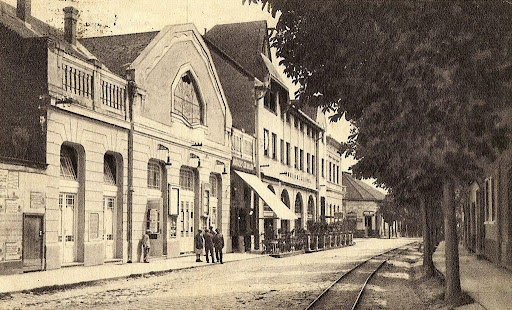
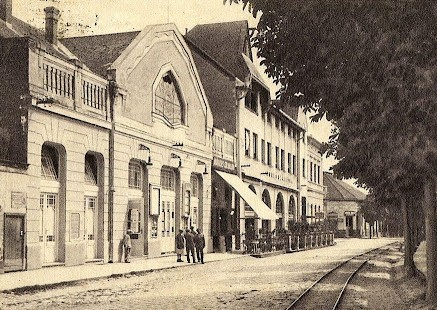
vwfugv

diff --git a/gyula.html b/gyula.html
@@ -44,9 +44,9 @@
         /* Slideshow container */
         .slideshow-container {
         position: relative;
-        margin-top: 100px;
-        margin-left: 200px;
-        margin-right: 200px;
+        margin-top: 50px;
+        margin-left: 50px;
+        margin-right: 50px;
         }
 
         /* Number text (1/3 etc) */
@@ -176,13 +176,16 @@
         <h2>Történet</h2><hr>
         <div class="flexb">
             <div class="flex egy">
-            <h3>Kezdetek</h3><br><p><img src="kep/gyulregen.jpg" alt="Békés régen" title="Békés régen">A vidéken, amelyen később Gyula kialakult, az első emberek az újkőkor idején, Kr. e. mintegy 5000 évvel jelentek meg. A Fehér-Körös vonala és a magasabb, ármentes területek akkoriban már alkalmasak voltak őskori települések megalapítására. Az akkoriban itt letelepült újkőkori emberek eredetét nem ismervén, e korszak legkorábbi szakaszát legfontosabb lelőhelyeiről épp Körös-kultúrának nevezték el a régészek. Ez a „kulturális korszak”, az újkőkor végén a tiszai kultúrában folytatódott. A népvándorlás idején, Kr. u. 500 körül a szkítákkal rokon szarmaták érkeztek a majdani Gyula területére. A honfoglalás időszakának helybéli történéseit nem ismerjük pontosan, csupán elméletek vannak erről a korszakról. E történetek alapja Anonymusnak az 1200 körül írt Honfoglalás című története, valamint egy a múlt század közepén a mai városháza udvarán feltárt honfoglalás kori lovas sír.</p></div><br>
+            <h3>Kezdetek</h3><br><p><img src="kep/gyulregen.jpg" alt="Gyula régen" title="Gyula régen">A vidéken, amelyen később Gyula kialakult, az első emberek az újkőkor idején, Kr. e. mintegy 5000 évvel jelentek meg. A Fehér-Körös vonala és a magasabb, ármentes területek akkoriban már alkalmasak voltak őskori települések megalapítására. Az akkoriban itt letelepült újkőkori emberek eredetét nem ismervén, e korszak legkorábbi szakaszát legfontosabb lelőhelyeiről épp Körös-kultúrának nevezték el a régészek. Ez a „kulturális korszak”, az újkőkor végén a tiszai kultúrában folytatódott. A népvándorlás idején, Kr. u. 500 körül a szkítákkal rokon szarmaták érkeztek a majdani Gyula területére. A honfoglalás időszakának helybéli történéseit nem ismerjük pontosan, csupán elméletek vannak erről a korszakról. E történetek alapja Anonymusnak az 1200 körül írt Honfoglalás című története, valamint egy a múlt század közepén a mai városháza udvarán feltárt honfoglalás kori lovas sír.</p>
+        </div><br>
             <div class="flex keto">
-            <h3>Gyula ostroma</h3><br><p><img src="kep/gyulaiostrom.jpg" alt="Török kor" title="Török kor">Pertev pasa 30 ezres seregével Gyula alá érkezett. Elsőként július 2-től 11-ig körülvette a várat a török, majd július 11-én indította meg támadást a vár ellen. A harcok második szakaszában a vár leggyengébb pontját, a huszárvárat ostromolta a török. A védők 13 napon át tudták tartani azt, végül július 23-án, a vizes árkon átkelve, maguk után a hidat felégetve a derékvárba vonultak vissza Gyula védői.  Az ostrom harmadik szakaszában a török a huszárvárba nyomulva felállította ágyúit és onnan lőtte a vár bástyáit, illetve annak tornyát. A belső vár leromlott állapota már nem nyújtott védelmet a gyulaiaknak. A nyári hőségben a kutak kiapadtak, a temetetlen halottak járványveszélyes helyzetet idéztek elő.  Hátországi segítség hiányában, a megfogyatkozott őrség és a várban rekedt asszonyok, gyerekek miatt Kerecsényi kénytelen volt tárgyalásokat kezdeményezni a törökkel. A derékvárat augusztus 20-ig, 28 napon át sikerült tartani a megújuló török rohamok és a folyamatos ágyúzás ellenére. </p></div><br>
+            <h3>Gyula ostroma</h3><br><p><img src="kep/gyulaiostrom (2).jpg" alt="Gyula ostroma" title="Gyula ostroma">Pertev pasa 30 ezres seregével Gyula alá érkezett. Elsőként július 2-től 11-ig körülvette a várat a török, majd július 11-én indította meg támadást a vár ellen. A harcok második szakaszában a vár leggyengébb pontját, a huszárvárat ostromolta a török. A védők 13 napon át tudták tartani azt, végül július 23-án, a vizes árkon átkelve, maguk után a hidat felégetve a derékvárba vonultak vissza Gyula védői.  Az ostrom harmadik szakaszában a török a huszárvárba nyomulva felállította ágyúit és onnan lőtte a vár bástyáit, illetve annak tornyát. A belső vár leromlott állapota már nem nyújtott védelmet a gyulaiaknak. A nyári hőségben a kutak kiapadtak, a temetetlen halottak járványveszélyes helyzetet idéztek elő.  Hátországi segítség hiányában, a megfogyatkozott őrség és a várban rekedt asszonyok, gyerekek miatt Kerecsényi kénytelen volt tárgyalásokat kezdeményezni a törökkel. A derékvárat augusztus 20-ig, 28 napon át sikerült tartani a megújuló török rohamok és a folyamatos ágyúzás ellenére. </p>
+        </div><br>
             <div class="harom flex">
-            <h3>Török kor</h3><br><p><img src="kep/gyulatorok.jpg" alt="Török kor" title="Török kor">A gyulai vár elfoglalásával szinte a teljes Körös-Maros köze elveszett. A vidéket a temesvári vilajethez csatolták, és az aradi szandzsákot megszüntetve létrehozták a gyulai szandzsákot. Gyula ezután közel száz évig török végvár maradt, s míg a folyamatos harcok egyre pusztították a vidéket, a 16. század végén zajló tizenöt éves háború teljes pusztulást hozott magával. A helyzetet s a megfogyatkozott adófizetői létszámot a török hadúr a lakosság gyarapításával próbálta meg ellensúlyozni, ezért a Délvidékről hozott telepeseket az elhagyott falvakba. 1694-es évben több várból kijuttatott török levelet is elfogtak a császári csapatok, melyekben élelmiszer bejuttatását kérik a Temesváron állomásozó török armadától. A török hadvezetés képtelen volt Gyulára élelmet szállítani. 1694. december közepén a várparancsnok jelezte kapitulációs szándékát. December 21-én megszületett a vár feladásáról, az őrség és a lakosság szabad elvonulásáról szóló szerződés.</p></div><br>
+            <h3>Török kor</h3><br><p><img src="kep/gyulatorok.jpg" alt="Török kor" title="Török kor">A gyulai vár elfoglalásával szinte a teljes Körös-Maros köze elveszett. A vidéket a temesvári vilajethez csatolták, és az aradi szandzsákot megszüntetve létrehozták a gyulai szandzsákot. Gyula ezután közel száz évig török végvár maradt, s míg a folyamatos harcok egyre pusztították a vidéket, a 16. század végén zajló tizenöt éves háború teljes pusztulást hozott magával. A helyzetet s a megfogyatkozott adófizetői létszámot a török hadúr a lakosság gyarapításával próbálta meg ellensúlyozni, ezért a Délvidékről hozott telepeseket az elhagyott falvakba. 1694-es évben több várból kijuttatott török levelet is elfogtak a császári csapatok, melyekben élelmiszer bejuttatását kérik a Temesváron állomásozó török armadától. A török hadvezetés képtelen volt Gyulára élelmet szállítani. 1694. december közepén a várparancsnok jelezte kapitulációs szándékát. December 21-én megszületett a vár feladásáról, az őrség és a lakosság szabad elvonulásáról szóló szerződés.</p>
+        </div><br>
             <div class="negy flex">
-            <h3>Világháború közt</h3><br><p><img src="kep/gyulvars.jpg">1920. június 4-i trianoni békeszerződés érzékenyen érintette Gyula gazdasági életét. A gazdasági hátteret jelentő 30 község közül csupán négy maradt meg az ország területén, ráadásul nyugati és déli irányban Békéscsaba vonzáskörzete érvényesült. Az iparban általános volt a panasz a gazdasági hanyatlás miatt. Különösen jelentős volt az építőmesterek között, akik közül sokan Herkulesfürdőig eljutottak, s most elvesztették a balkáni vállalkozási területet. Mivel számuk Gyulán igen magas volt, a munka meg kevés, sokan kivándoroltak. Csak 1930-ban 200 kőműves kért kivándorlási engedélyt Gyuláról.  A városépítés szempontjából szerencsés volt Gerlóczy Gedeon budapesti műépítész megnyerése több épülettervezésére. Az építész, akinek legtöbb vidéki alkotása épp Gyulán található, lényegében biztosította a városkép további egységes fejlődését. Gyula kulturális értékteremtő erejét erősítette, hogy József Dezső helyi festőművész-tanár 1922-ben megalapította a Békés megyei Képző- és Iparművészeti társulatot Gyulán, amely kapcsán később művésztelep is létre jöhetett.</p></div>
+            <h3>Világháború közt</h3><br><p><img src="kep/gyulvars.jpg" alt="Világháborúk közt" title="Világháborúk közt">1920. június 4-i trianoni békeszerződés érzékenyen érintette Gyula gazdasági életét. A gazdasági hátteret jelentő 30 község közül csupán négy maradt meg az ország területén, ráadásul nyugati és déli irányban Békéscsaba vonzáskörzete érvényesült. Az iparban általános volt a panasz a gazdasági hanyatlás miatt. Különösen jelentős volt az építőmesterek között, akik közül sokan Herkulesfürdőig eljutottak, s most elvesztették a balkáni vállalkozási területet. Mivel számuk Gyulán igen magas volt, a munka meg kevés, sokan kivándoroltak. A városépítés szempontjából szerencsés volt Gerlóczy Gedeon budapesti műépítész megnyerése több épülettervezésére. Az építész, lényegében biztosította a városkép további egységes fejlődését. Gyula kulturális értékteremtő erejét erősítette, hogy József Dezső helyi festőművész-tanár 1922-ben megalapította a Békés megyei Képző- és Iparművészeti társulatot Gyulán, amely kapcsán később művésztelep is létre jöhetett.</p>
         </div>
     </section>
 
@@ -278,7 +281,7 @@
     </section>
 
     <section id="alja">
-        <h1 class="image-text">Békés</h1>
+        <h1 class="image-text">Gyula</h1>
     </section>
 </body>
 

diff --git a/gyula.css b/gyula.css
@@ -189,26 +189,26 @@ h2{
 }
 .egy img{
     float: left;
-    margin-right: 100px;
-    width: 490px;
+    margin-right: 70px;
+    width: 540px;
     border-radius: 50px;
 }
 .keto img{
     float: right;
-    margin-left: 110px;
-    width: 480px;
+    margin-left: 90px;
+    width: 500px;
     border-radius: 50px;
 }
 .harom img{
     float: left;
-    margin-right: 100px;
-    width: 550px;
+    margin-right: 80px;
+    width: 480px;
     border-radius: 50px;
 }
 .negy img{
     float: right;
-    margin-left: 120px;
-    width: 550px;
+    margin-left: 80px;
+    width: 470px;
     border-radius: 50px;
 }
 .flex{

diff --git a/bekes.html b/bekes.html
@@ -44,9 +44,9 @@
         /* Slideshow container */
         .slideshow-container {
         position: relative;
-        margin-top: 100px;
-        margin-left: 200px;
-        margin-right: 200px;
+        margin-top: 50px;
+        margin-left: 50px;
+        margin-right: 50px;
         }
 
         /* Number text (1/3 etc) */

diff --git a/csaba.html b/csaba.html
@@ -50,9 +50,9 @@
         /* Slideshow container */
         .slideshow-container {
         position: relative;
-        margin-top: 100px;
-        margin-left: 200px;
-        margin-right: 200px;
+        margin-top: 50px;
+        margin-left: 50px;
+        margin-right: 50px;
         }
 
         /* Number text (1/3 etc) */
